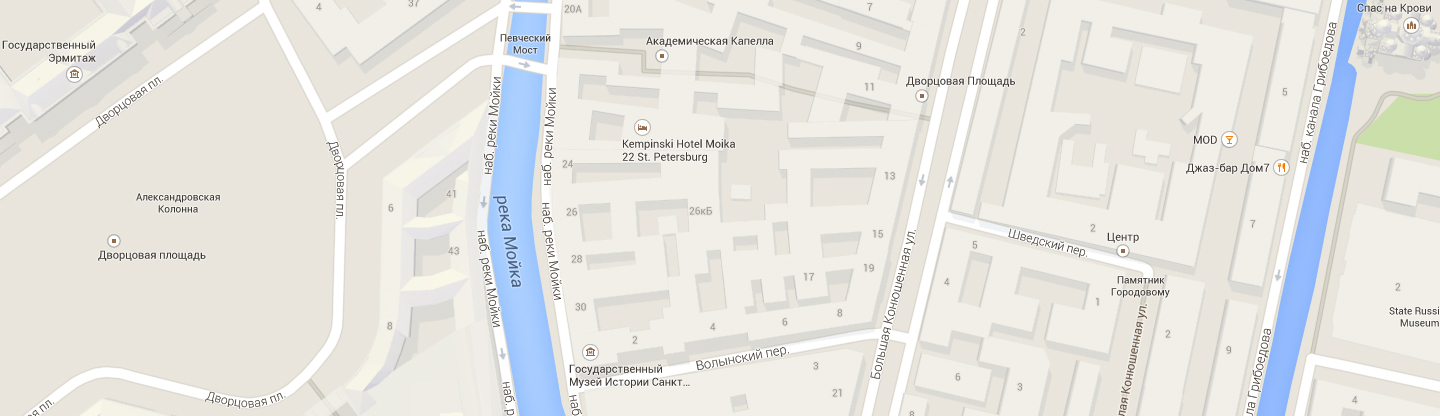
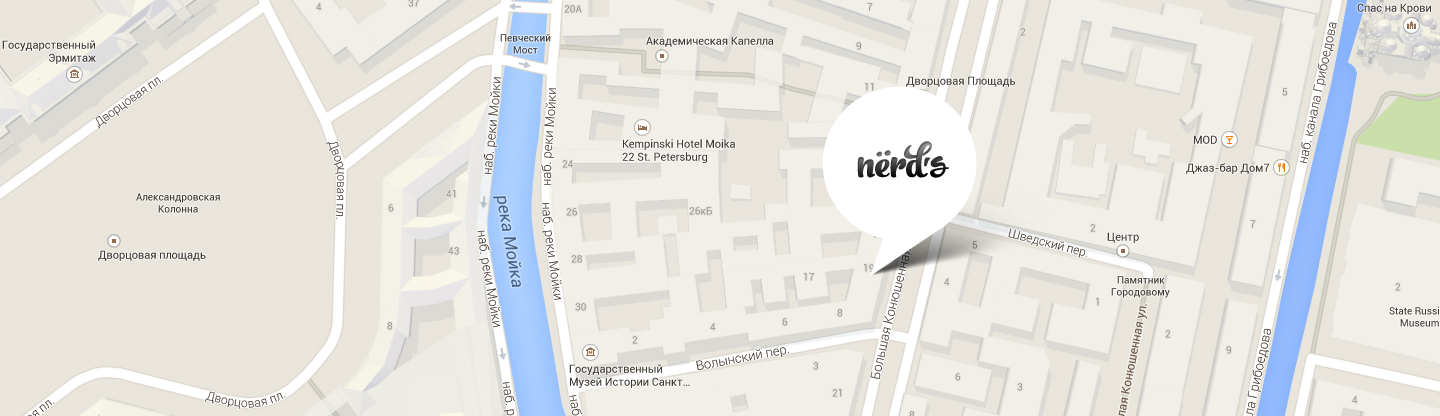
Готовое

Changed region(s): [[0.5625, 0.2188, 0.6875, 0.6562]]

diff --git a/css/style.min.css b/css/style.min.css
@@ -1,0 +1,1 @@
+:root{--basic-white: #ffffff; --basic-red: #fb565a; --basic-cursor-red: #e74246; --basic-pressing-red: #d7373b; --basic-green: #00ca74; --basic-cursor-green: #00bc6c; --basic-pressing-green: #00aa62; --basic-yellow: #efc84a; --basic-cursor-yellow: #eab534; --basic-pressing-yellow: #e5a722; --basic-gray: #eeeeee; --basic-cursor-gray: #dfdfdf; --basic-pressing-gray: #d5d5d5; --basic-black: #000000; --basic-lightblack: #4d4d4d; --basic-lightgray: #d7dcde; --basic-color-catalog-paragraph: #666666;}.page-body{height: 100%; box-sizing: border-box;}*,*:before,*:after{box-sizing: inherit;}.page-body{min-width: 1160px; margin: 0; padding: 0; font-family: "Roboto", "Arial", sans-serif; font-size: 16px; line-height: 24px; font-weight: 400; color: var(--basic-black); background-color: var(--basic-white); min-height: 100%; display: grid; grid-template-rows: min-content 1fr min-content; align-content: start;}a{text-decoration: none;}a:hover{cursor: pointer;}img{max-width: 100%; height: auto;}.visually-hidden{position: absolute; width: 1px; height: 1px; margin: -1px; border: 0; padding: 0; white-space: nowrap; clip-path: inset(100%); clip: rect(0 0 0 0); overflow: hidden;}.container{width: 1180px; margin: 0 auto; padding: 0 10px;}.main-header{background-color: var(--basic-gray); padding-top: 100px;}.main{padding-bottom: 80px;}.main-header-logo:hover{opacity: 0.7;}.main-header-logo:active{opacity: 0.3;}.main-navigation{display: grid; grid-template-columns: 159px 1fr auto; gap: 45px; font-size: 16px; line-height: 30px; font-weight: 500; text-transform: uppercase; color: var(--basic-black); background-color: transparent;}.list-reset{list-style: none;}.site-navigation{display: flex; justify-content: center; align-items: center; margin: 0; margin-top: 15px; padding: 0;}.site-navigation li{margin-right: 45px;}.site-navigation:last-child{margin-right: 0;}.user-list{display: flex; justify-content: flex-end; align-items: center; margin-top: 30px;}.user-list .main-backet{position: relative;}.main-backet::before{content: ""; position: absolute; top: 7px; left: -40px; width: 15px; height: 15px; background-image: url("../img/cart-icon.svg"); background-repeat: no-repeat; background-position: 0 0;}.site-navigation a,.user-list a{color: var(--basic-black); display: block;}.site-navigation a:hover,.site-navigation a:focus,.user-list a:hover,.user-list a:focus{background-color: var(--basic-gray); color: var(--basic-cursor-red);}.site-navigation a:active,.user-list a:active{color: var(--basic-pressing-gray);}.shop{position: relative;}.shop::after{content: ""; position: absolute; width: 75px; height: 2px; top: 42px; background-color: var(--basic-red);}.slider-section{position: relative; background-color: var(--basic-gray); margin: 0; padding: 0; padding-bottom: 62px; overflow: hidden;}.slider-list{padding: 0; width: initial;}.slide-2,.slide-3{display: none;}.slider-image{min-width: initial; position: relative; top: -23px; right: 146px;}.slider-image-wrap{width: 800px;}.slider-grid-container{display: grid; grid-template-columns: 540px 1fr; text-align: left; padding-left: 3px;}.slider-container{position: relative; z-index: 1;}.slider-item{max-height: 330px;}.slider-description-1{margin-bottom: 51px; margin-left: -4px;}.slider-description-2{margin-bottom: 40px; margin-left: -4px;}.slider-description-3{margin-bottom: 40px; margin-left: -4px;}.slider-title-1{font-size: 55px; line-height: 55px; font-weight: 500; margin-bottom: 27px; margin-left: -4px;}.slider-title-2{font-size: 55px; line-height: 55px; font-weight: 500; margin-bottom: 38px; margin-left: -4px;}.slider-title-3{font-size: 55px; line-height: 55px; font-weight: 500; margin-bottom: 38px; margin-left: -4px;}.slider-controls{position: absolute; bottom: 97px; left: 50%; transform: translateX(-43%); z-index: 2; display: flex; justify-content: space-between;}.slider-control{padding: 0; margin-right: 17px; width: 18px; height: 18px; background-color: var(--basic-white); border-radius: 50%; border: none; cursor: pointer;}.slider-controls button::after{content: ""; position: absolute; background-position: 0 0; border: 2px solid var(--basic-pressing-gray); border-radius: 50%; width: 8px; height: 8px; left: 5px; top: 5px;}.slide-current{display: block;}.slider-controls .current{background-color: #ffffff;}.features{border-bottom: 2px solid var(--basic-gray); padding: 0; min-height: 350px; color: var(--basic-black); background-color: var(--basic-white); padding-bottom: 80px; padding-top: 81px;}.features-title{font-size: 24px; line-height: 30px; font-weight: 700; text-transform: uppercase; margin-bottom: 0;}.features-list{display: grid; grid-template-columns: repeat(3, 300px); gap: 100px; padding: 0; margin: 0;}.features-item{display: flex; flex-direction: column; justify-content: space-between; margin: 0; padding: 0;}.features-item p{margin-bottom: 31px;}.description{color: var(--basic-black); background-color: var(--basic-white); padding-bottom: 54px;}.description h2{font-size: 45px; line-height: 45px; font-weight: 500; margin-top: 44px;}.description-columns{display: grid; grid-template-columns: 2fr 1fr; column-gap: 82px; margin: 0; padding: 0;}.desc-list{text-align: left; margin-top: 30px;}.desc-list b{font-weight: 700; text-transform: uppercase;}.desc-list-2 b{font-weight: 700; text-transform: uppercase;}.desc-list-2 img{margin-bottom: 31px;}.desc-list p{margin-bottom: 40px; margin-top: -4px;}.description-item{position: relative; margin-top: 24px; margin-left: -4px;}.description-item::before{content: ""; position: absolute; left: -35px; top: 10px; width: 25px; height: 2px; background-image: url("../img/rectangle.svg"); background-repeat: no-repeat; background-position: 0 0;}.desc-list-2{margin-top: 39px;}.desc-list-2-title{padding-left: 15px;}.description-list-2{display: flex; justify-content: center; margin: 0; margin-top: 28px; padding: 0;}.desc-item-1{margin-right: 21px;}.desc-item-3{margin-left: 22px;}.description-item-2 b{font-size: 45px; line-height: 64px;}.percent{font-size: 60%;}.description-item-2 p{line-height: 18px; text-align: left; margin-top: 13px;}.partners{padding: 0; padding-top: 40px; padding-bottom: 15px; border-top: 2px solid var(--basic-gray); border-bottom: 2px solid var(--basic-gray);}.partners-list{display: grid; grid-template-columns: repeat(4, 1fr); align-items: center; gap: 86px; padding-left: 31px;}.partners-item{opacity: 0.3;}.partners-item:hover{opacity: 1;}.partners-item:active{opacity: 0.2;}.partners-1{position: relative;}.partners-1::after{content: ""; position: absolute; background-color: var(--basic-black); width: 2px; height: 52px; top: 2px; left: 248px;}.partners-2{margin-top: -13px; margin-left: -9px; position: relative;}.partners-2::after{content: ""; position: absolute; background-color: var(--basic-black); width: 2px; height: 52px; top: 19px; left: 253px;}.partners-3{margin-top: -9px; position: relative;}.partners-3::after{content: ""; position: absolute; background-color: var(--basic-black); width: 2px; height: 52px; top: 0px; left: 241px;}.partners-4{margin-top: -1px;}.map{max-height: 420px; background: url(../img/map.jpg) no-repeat center / cover;}.adress{width: 319px; height: 308px; background-color: var(--basic-white); margin-top: 60px;}.adress h3{text-transform: uppercase; font-weight: 700; font-size: 18px; line-height: 30px; padding-top: 48px; padding-left: 49px;}.location{line-height: 18px; padding-left: 49px; padding-top: 6px;}.phone{margin-bottom: 53px;}.phone a{color: var(--basic-black);}.adress-button{font-size: 16px; line-height: 18px; font-weight: 500; text-align: center; vertical-align: middle; color: var(--basic-white); background-color: var(--basic-red); text-transform: uppercase; border: none; padding: 16px 45px; margin-left: 49px; border-radius: 3px; width: 219px;}.adress-button:hover{background-color: var(--basic-cursor-red); cursor: pointer;}.adress-button:active{background-color: var(--basic-pressing-red); color: rgba(255, 255, 255, 0.3);}.button{font-size: 16px; line-height: 18px; font-weight: 500; text-align: center; vertical-align: middle; color: var(--basic-white); background-color: var(--basic-red); text-transform: uppercase; border: none; padding: 0; margin: 0; padding: 16px 54px; border-radius: 3px; width: 240px;}.button:hover{background-color: var(--basic-cursor-red); cursor: pointer;}.button:active{background-color: var(--basic-pressing-red); color: rgba(255, 255, 255, 0.3);}.slider-button{margin-left: -2px;}.feature-button{width: 159px; height: 51px; font: inherit; text-align: center; color: var(--basic-white); background-color: var(--basic-red); padding: 15px 39px; border-radius: 3px; text-transform: uppercase;}.feature-button:hover{background-color: var(--basic-cursor-red);}.feature-button:active{background-color: var(--basic-pressing-red); color: rgba(255, 255, 255, 0.3);}.feature-button-green{background-color: var(--basic-green);}.feature-button-green:hover{background-color: var(--basic-cursor-green);}.feature-button-green:active{background-color: var(--basic-pressing-green);}.feature-button-yellow{background-color: var(--basic-yellow);}.feature-button-yellow:hover{background-color: var(--basic-cursor-yellow);}.feature-button-yellow:active{background-color: var(--basic-pressing-yellow);}.page-footer{display: grid; grid-template-rows: 2fr 1fr; color: var(--basic-black); background-color: var(--basic-white);}.social-section{display: grid; grid-template-columns: 1fr 2fr; padding: 58px 0;}.social-list{display: flex; flex-wrap: wrap; justify-content: flex-start; margin: 0; padding: 0; width: 274px; order: -1;}.footer-social-title{display: flex; flex-direction: column; justify-content: flex-start; margin-top: -16px;}.social-section h2{font-size: 36px; line-height: 36px; font-weight: 700; padding-left: 12px; margin-top: 29px;}.social-section p{line-height: 22px; margin-top: -20px; margin-left: 13px;}.social-link{display: flex; justify-content: center; align-items: center; background-color: var(--basic-gray); border-radius: 50%; width: 81px; height: 81px; margin-right: 8px; margin-top: 7px;}.social-link:hover{background-color: var(--basic-cursor-red);}.social-link:active{background-color: var(--basic-pressing-red);}.social-link:active svg{opacity: 0.3;}.modal{display: none; position: fixed; top: 70px; left: 25%; color: var(--basic-black); background-color: var(--basic-white); box-shadow: 0 30px 50px rgba(0, 0, 0, 0.7); padding-top: 30px; padding-bottom: 84px; padding-left: 100px; padding-right: 100px; width: 960px; height: 590px; z-index: 3;}.modal-show{display: block; animation: bounce 0.6s;}.modal-error{animation: shake 0.6s;}.modal-close{position: absolute; cursor: pointer; top: 78px; right: 90px; width: 21px; height: 21px; border: 0; border: none; background-image: url(../img/cross.svg); background-color: var(--basic-white); opacity: 0.3;}.modal-close:hover{opacity: 1;}.modal-close:active{opacity: 0.1;}.contact-form-field{border-radius: 3px;}.letter-area{height: 118px; width: 100%; margin-bottom: 47px; padding-top: 16px; padding-left: 16px;}.modal h2{font-size: 45px; line-height: 1; font-weight: 700; margin-bottom: 42px;}.contact-form-flex-container{width: 760px; display: flex; flex-wrap: wrap; justify-content: space-between;}.letter-form{flex-grow: 1; margin-bottom: -6px;}.letter-form label{display: block; margin-bottom: 9px; font-size: 16px; line-height: 18px; font-weight: 700;}.contact-form-item{width: 360px; margin-top: 0; margin-bottom: 18px; font: inherit;}.contact-form-item label{display: block; margin-bottom: 9px; font-size: 16px; line-height: 18px; font-weight: 700;}.contact-form-field{line-height: 18px; padding: 16px 14px; width: 360px; height: 49px; font: inherit; background-color: transparent; border: 2px solid var(--basic-lightgray);}.contact-form-field:focus{border-color: var(--basic-black);}.contact-form-submit{width: 260px;}.filter-item{margin: 0; padding: 0; border: none;}.range-filter{width: 260px; margin-top: 49px;}.filter-item legend{font-size: 18px; line-height: 24px; text-transform: uppercase; font-weight: 700;}.page-catalog{margin-bottom: -26px;}.range-controls{position: relative; height: 80px; margin-bottom: 15px; padding-top: 39px; padding-right: 20px; padding-left: 20px; background-color: #f1f1f1; border-radius: 5px;}.range-controls .scale{height: 2px; background: #d7dcde;}.range-controls .bar{width: 70%; height: 2px; background: #00ca74;}.range-controls .toggle{position: absolute; top: 30px; left: 0; width: 20px; height: 20px; padding: 0; background-color: #ffffff; border-radius: 50%; box-shadow: 0 2px 1px 0 #cfcfcf; cursor: pointer;}.range-controls .toggle::before{content: ""; position: absolute; width: 4px; height: 4px; background-color: #ABABAB; border-radius: 50%; top: 8px; left: 8px;}.range-controls .toggle-min{left: 18px;}.range-controls .toggle-max{left: 160px;}.price-controls{display: flex; justify-content: space-between;}.price-controls label{text-transform: uppercase; font-family: "Roboto", "Arial", sans-serif; font-size: 16px;}.price-controls input{width: 78px; padding: 10px; margin-left: 10px; text-align: center; color: #283136; border: none; border-radius: 5px; background: #f1f1f1; font-family: inherit; font-size: inherit;}.grid-container-catalog{display: grid; width: 100%; grid-template-columns: 260px 1fr; gap: 140px; padding-top: 5px;}.container-catalog{padding-top: 34px; margin-top: 0; padding-bottom: 70px; background-color: var(--basic-gray);}.title-catalog{font-size: 55px; line-height: 55px; font-weight: 500; text-align: center; vertical-align: middle;}.sorting-button{font-size: 14px; line-height: 18px; text-transform: uppercase; color: var(--basic-black);}.button-up{background-image: url(../img/icon-up.svg); background-color: var(--basic-white); background-repeat: no-repeat; width: 11px; height: 10px; border: 0; cursor: pointer;}.button-down{background-image: url(../img/icon-down.svg); background-color: var(--basic-white); background-repeat: no-repeat; width: 11px; height: 10px; border: 0; cursor: pointer; margin-left: -42px; margin-right: 12px;}.catalog-section .title-sorting-list{font-size: 18px; line-height: 30px;}.catalog-list{display: grid; grid-template-columns: 1fr 1fr; column-gap: 42px; row-gap: 31px; padding: 0; margin: 0; margin-top: -3px; margin-bottom: 55px;}.form-section{padding-top: 51px;}.title-filter{font-size: 18px; line-height: 30px; font-weight: 700; margin-bottom: -1px; text-transform: uppercase;}.form-radio-list li{margin-bottom: 18px;}.form-fieldset ul{padding: 0; margin: 0; padding-left: 25px; line-height: 19px; padding-top: 14px;}.form-radio-item label,.form-checkbox-item label{position: relative; display: block; user-select: none;}.form-section fieldset{padding: 0; margin-left: 0; border: none;}.fieldset-1{margin-bottom: 54px;}.fieldset-2{margin-bottom: 28px;}.fieldset-3{margin-bottom: 32px;}.form-checkbox-list li{margin-bottom: 18px;}.filter-input-checkbox + label::before{content: ""; position: absolute; left: -26px; top: 0; width: 23px; height: 23px; border-radius: 3px; border: 2px solid var(--basic-black); opacity: 0.4; cursor: pointer;}.filter-input-checkbox:hover + label::before{opacity: 1;}.filter-input-checkbox:checked + label::after{content: ""; position: absolute; background-image: url(../img/check-mark.svg); background-repeat: no-repeat; background-position: 0 0; width: 20px; height: 16px; left: -22px; top: 5px; opacity: 0.4;}.filter-input-checkbox:checked:hover + label::after{opacity: 1;}.filter-input-checkbox:disabled + label{opacity: 0.3;}.filter-input-checkbox:disabled + label::before{opacity: 0,1;}.filter-input-checkbox:disabled + label::after{opacity: 0.1;}.filter-input-radio:hover + label::before{opacity: 1;}.filter-input-radio + label::before{content: ""; position: absolute; left: -26px; top: -1px; width: 25px; height: 25px; border-radius: 50%; border: 3px solid var(--basic-black); opacity: 0.4; cursor: pointer;}.filter-input-radio:checked + label::after{content: ""; position: absolute; top: 7px; left: -18px; width: 9px; height: 9px; background-color: var(--basic-black); border-radius: 50%; opacity: 0.4;}.filter-input-radio:checked:hover + label::after{opacity: 1;}.filter-input-radio:disabled + label{opacity: 0.3;}.filter-input-radio:disabled + label::before{opacity: 0.1;}.filter-input-radio:disabled + label::after{opacity: 0.1;}.form-label{line-height: 19px; padding-left: 10px; padding-top: 3px;}.min-price,.max-price{font-size: 16px; line-height: 22px;}.form-submit-button{width: 260px;}.form-submit-button,.pagination-item{background-color: var(--basic-gray); color: var(--basic-black);}.form-submit-button:hover,.pagination-item:hover{background-color: var(--basic-cursor-gray);}.form-submit-button:active,.pagination-item:active{background-color: var(--basic-pressing-gray);}.pagination-item a:active{color: rgba(0, 0, 0, 0.3);}.pagination-list{display: flex; justify-content: flex-start; gap: 14px; margin: 0; padding: 0;}.pagination-button-next{line-height: 18px; font-weight: 500; width: 260px; text-align: center; vertical-align: middle; text-transform: uppercase;}.pagination-button{background-color: var(--basic-white); border: 3px solid var(--basic-gray);}.pagination-item{border-radius: 3px;}.pagination-item a{line-height: 18px; font-weight: 500; display: block; color: var(--basic-black); padding-left: 18px; padding-right: 18px; padding-top: 16px; padding-bottom: 10px;}.sorting-flex-container{display: flex; justify-content: space-between; align-items: center; margin: 0; padding: 0; height: 133px;}.title-sorting-list{width: 360px; text-transform: uppercase;}.sorting{width: 360px; padding-left: 0; display: flex; justify-content: space-between;}.sorting a,.button-up,.button-down{opacity: 0.3;}.sorting a:hover,.button-up:hover,.button-down:hover{opacity: 0.6;}.sorting a:active,.button-up:active,.button-down:active{opacity: 1;}.sorting-1{margin-left: 19px;}.sorting-2{margin-left: -115px;}.sorting-3{margin-left: -169px;}.catalog-list{min-width: 360px;}.catalog-item{min-height: 580px; display: inline-flex; flex-direction: column; position: relative; cursor: pointer; overflow:hidden; border-radius: 5px;}.catalog-item img{display: block;}.catalog-item-description{font-size: 16px; line-height: 18px; color: var(--basic-color-catalog-paragraph); margin-left: -3px; margin-top: 13px;}.catalog-item:hover{background-color: var(--basic-gray); box-shadow: 0 30px 50px rgba(0, 0, 0, 0.2);}.catalog-item-name{font-size: 18px; line-height: 30px; font-weight: 700; margin-top: 16px; color: var(--basic-black);}.catalog-item-name:hover{color: var(--basic-red);}.catalog-item-name:active{color: var(--basic-pressing-gray);}.catalog-modal{display: flex; flex-direction: column; align-items: center; text-align: center; min-height: 231px; background: var(--basic-gray); position: absolute; z-index: 4; transform: translateY(100%); width: 100%; padding: 10px; bottom: 0; left: 0; transition: transform 0.3s;}.catalog-item:hover .catalog-modal{transform: translateY(0%);}.browser-catalog{opacity: 12%;}.catalog-item:hover .browser-catalog{opacity: 1;}.button-catalog{width: 200px; margin-top: 17px;}.button-catalog:active{color: var(--basic-white);}@keyframes bounce{0%{transform: translateY(-2000px);}70%{transform: translateY(30px);}90%{transform: translateY(-10px);}100%{transform: translateY(0);}}@keyframes shake{0%, 100%{transform: translateX(0);}10%, 30%, 50%, 70%, 90%{transform: translateX(-10px);}20%, 40%, 60%, 80%{transform: translateX(10px);}}

diff --git a/catalog.html b/catalog.html
@@ -1,17 +1,15 @@
 <!DOCTYPE html>
 <html lang="ru">
-
 <head>
   <meta charset="utf-8">
   <title>Нёрдс каталог</title>
   <link rel="preconnect" href="https://fonts.gstatic.com">
   <link href="https://fonts.googleapis.com/css2?family=Roboto:wght@400;500;700&display=swap" rel="stylesheet">
   <link rel="stylesheet" href="css/normalize.css">
-  <link rel="stylesheet" href="css/style.css">
+  <link rel="stylesheet" href="css/style.min.css">
   <link rel="icon" href="favicon.ico">
   <link rel="manifest" href="manifest.webmanifest">
 </head>
-
 <body class="page-body">
   <header class="main-header">
     <div class="container">
@@ -86,8 +84,6 @@
                 </li>
               </ul>
             </fieldset>
-
-
             <fieldset class="form-fieldset fieldset-3">
               <legend class="title-filter">особенности:</legend>
               <ul class="form-checkbox-list list-reset">
@@ -116,7 +112,6 @@
             <button class="button form-submit-button" type="submit">Показать</button>
           </form>
         </section>
-
         <section class="catalog-section">
           <h2 class="visually-hidden">список макетов</h2>
           <div class="sorting-flex-container">
@@ -131,7 +126,6 @@
             <button class="button-up" type="button" aria-label="up"></button>
           </div>
           </div>
-
           <ul class="catalog-list list-reset">
             <li class="catalog-item">
               <img class="browser-catalog" src="img/browser.svg" width="359" alt="панель браузера">
@@ -190,9 +184,6 @@
               </div>
             </li>
           </ul>
-
-
-
           <ul class="pagination-list list-reset">
             <li class="pagination-item">
               <a class="pagination-button">1</a>
@@ -221,9 +212,8 @@
             ул. Б. Конюшенная, д. 19/8<br>
             <p class="phone">тел.<a href="tel:+78122757575"> +7 (812) 275-75-75</a></p>
           </div>
-          <a class="adress-button" href="#">напишите нам</a>
+          <a class="adress-button" href="contact.html">напишите нам</a>
         </div>
-        <img class="marker" src="img/map-marker.png" width="231" height="190" alt="маркер на карте">
       </div>
     </section>
     <div class="container">
@@ -258,7 +248,27 @@
       </section>
     </div>
   </footer>
-
+  <section class="modal">
+    <h2>Напишите нам</h2>
+    <form class="contact-form" action="https://echo.htmlacademy.ru" method="post">
+      <div class="contact-form-flex-container">
+      <p class="contact-form-item">
+        <label for="login-login">Ваше имя:</label>
+        <input class="contact-form-field" id="login-login" type="text" name="login" placeholder="Имя Фамилия">
+      </p>
+      <p class="contact-form-item">
+        <label for="email-email">Ваш email:</label>
+        <input class="contact-form-field" id="email-email" type="email" name="email" placeholder="email@example.com">
+      </p>
+      <p class="letter-form">
+        <label for="text-text">Текст письма:</label>
+        <textarea class="letter-area" id="text-text" name="text" placeholder="В свободной форме"></textarea>
+      </p>
+      </div>
+      <button class="button contact-form-submit" type="submit">отправить</button>
+    </form>
+    <button class="modal-close" type="button" aria-label="Закрыть"></button>
+  </section>
+  <script src="js/main.min.js"></script>
 </body>
-
 </html>

diff --git a/index.html b/index.html
@@ -6,7 +6,7 @@
   <link rel="preconnect" href="https://fonts.gstatic.com">
   <link href="https://fonts.googleapis.com/css2?family=Roboto:wght@400;500;700&display=swap" rel="stylesheet">
   <link rel="stylesheet" href="css/normalize.css">
-  <link rel="stylesheet" href="css/style.css">
+  <link rel="stylesheet" href="css/style.min.css">
   <link rel="icon" href="favicon.ico">
   <link rel="manifest" href="manifest.webmanifest">
 </head>
@@ -177,7 +177,6 @@
           </div>
           <a class="adress-button" href="contact.html">напишите нам</a>
         </div>
-        <img class="marker" src="img/map-marker.png" width="231" height="190" alt="маркер на карте">
       </div>
     </section>
     <div class="container">
@@ -233,6 +232,6 @@
     </form>
     <button class="modal-close" type="button" aria-label="Закрыть"></button>
   </section>
-  <script src="js/main.js"></script>
+  <script src="js/main.min.js"></script>
 </body>
 </html>

diff --git a/js/main.min.js b/js/main.min.js
@@ -1,0 +1,1 @@
+const letter=document.querySelector(".adress-button");const letterPopup=document.querySelector(".modal");const letterClose=letterPopup.querySelector(".modal-close");const letterForm=letterPopup.querySelector(".contact-form");const loginLogin=letterPopup.querySelector(".contact-form-field");letter.addEventListener("click", function (evt){evt.preventDefault(); letterPopup.classList.add("modal-show");});letterClose.addEventListener("click", function (evt){evt.preventDefault(); letterPopup.classList.remove("modal-show"); letterPopup.classList.remove("modal-error"); loginLogin.focus();}); letterForm.addEventListener("submit", function (evt){if (!loginLogin.value){evt.preventDefault(); letterPopup.classList.add("modal-error");}});window.addEventListener("keydown", function (evt){if (evt.keyCode===27){if (letterPopup.classList.contains("modal-show")){evt.preventDefault(); letterPopup.classList.remove("modal-show");}}});

diff --git a/css/style.css b/css/style.css
@@ -499,11 +499,6 @@ img {
   background-color: var(--basic-pressing-red);
   color: rgba(255, 255, 255, 0.3);
 }
-.marker {
-  position: relative;
-  right: -63%;
-  top: -281px;
-}
 .button {
   font-size: 16px;
   line-height: 18px;
